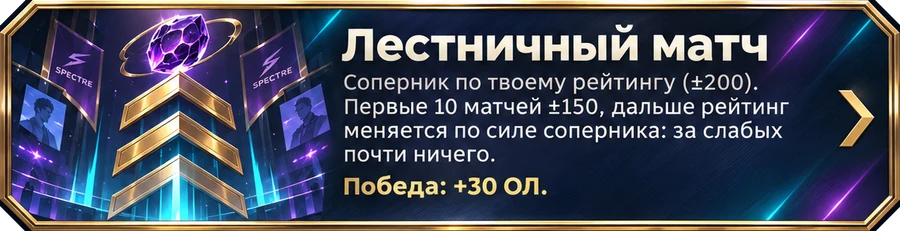
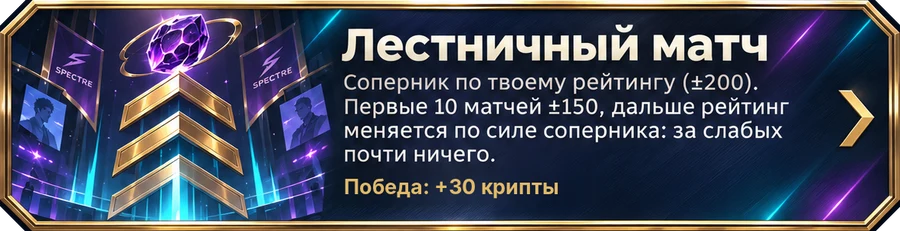
Валюта называется криптой (без «ОЛ / очков лиги»); заметки про крипту и рейтинг раздельно
Claude-Session: https://claude.ai/code/session_01BdoBrB8cx4HivwSUnJtpct

Changed region(s): [[0.3733, 0.7576, 0.6222, 0.8788]]

diff --git a/sw.js b/sw.js
@@ -1,5 +1,5 @@
 // Установка как приложения и офлайн: сначала сеть (чтобы приходили обновления), без сети — сохранённая копия.
-const CACHE = 'spektr-v46';
+const CACHE = 'spektr-v47';
 const FILES = ['./', './index.html', './manifest.webmanifest', './icon-192.png', './icon-512.png', './icon-mask.png', './icon-180.png'];
 self.addEventListener('install', e => { e.waitUntil(caches.open(CACHE).then(c => c.addAll(FILES))); self.skipWaiting(); });
 self.addEventListener('activate', e => { e.waitUntil(caches.keys().then(ks => Promise.all(ks.filter(k => k !== CACHE).map(k => caches.delete(k))))); self.clients.claim(); });
